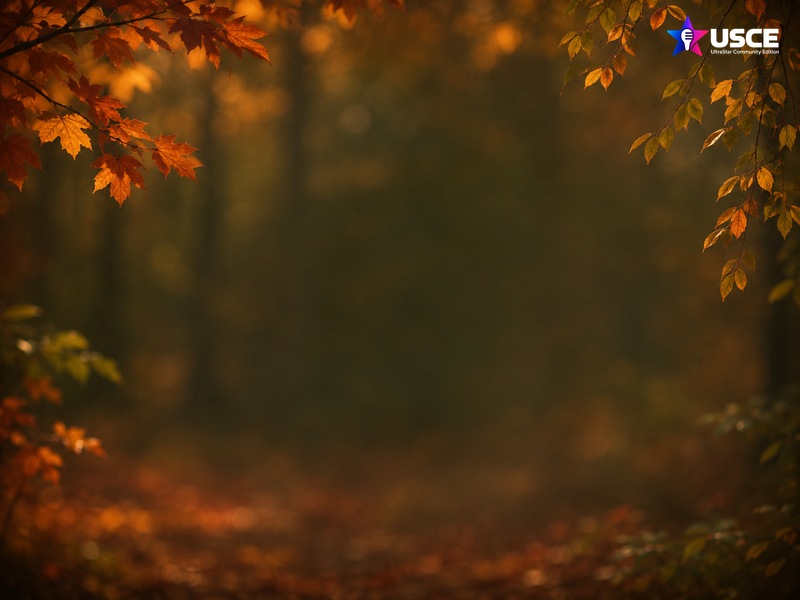
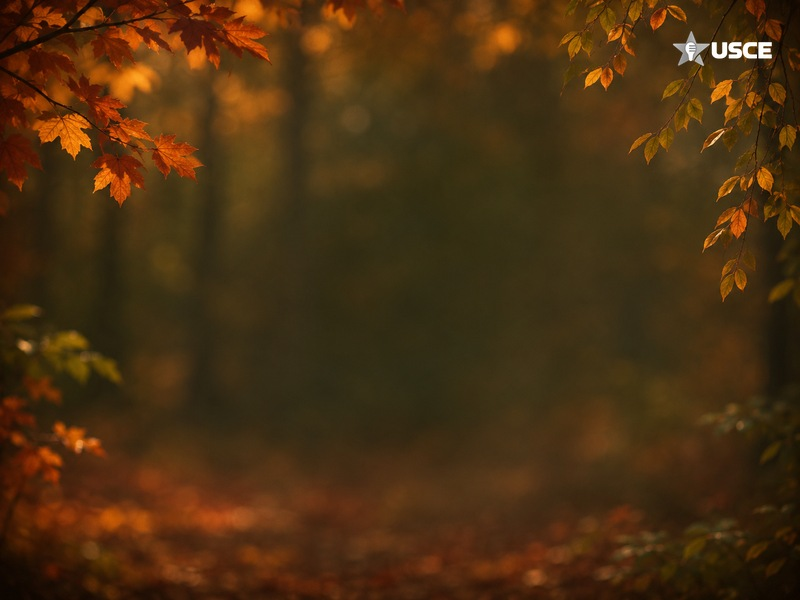
Restore the simpler Modern background wordmark

Changed region(s): [[0.8125, 0.03, 1.0, 0.12]]

diff --git a/.github/artwork-source/build-backgrounds.py b/.github/artwork-source/build-backgrounds.py
@@ -45,7 +45,25 @@ def dark_surface_wordmark(source):
     return logo.crop(box)
 
 
-def branded(background, wordmark, *, loading=False):
+def modern_wordmark(source):
+    """Use a monochrome star and short USCE wordmark for Modern."""
+    logo = Image.open(BytesIO(source)).convert("RGBA")
+    alpha = logo.getchannel("A")
+    star = ImageOps.grayscale(logo.crop((0, 0, 855, logo.height)))
+    star = star.point(lambda value: 128 + value // 2).convert("RGBA")
+    star.putalpha(alpha.crop((0, 0, 855, logo.height)))
+
+    wordmark = Image.new("RGBA", logo.size)
+    wordmark.paste(star)
+    letters_box = (855, 0, logo.width, 565)
+    letters_alpha = alpha.crop(letters_box)
+    letters = Image.new("RGBA", letters_alpha.size, "white")
+    letters.putalpha(letters_alpha)
+    wordmark.paste(letters, letters_box[:2])
+    return wordmark.crop(wordmark.getbbox())
+
+
+def branded(background, wordmark, *, loading=False, top_margin=0.027):
     output = background.copy()
     width, height = output.size
     logo_width = round(width * (0.44 if loading else 0.14))
@@ -54,7 +72,7 @@ def branded(background, wordmark, *, loading=False):
     if loading:
         position = ((width - logo_width) // 2, (height - logo_height) // 2)
     else:
-        position = (width - logo_width - round(width * 0.026), round(height * 0.027))
+        position = (width - logo_width - round(width * 0.026), round(height * top_margin))
     output.paste(logo.convert("RGB"), position, logo.getchannel("A"))
     return output
 
@@ -67,6 +85,7 @@ def main():
[1 lines of base64/hex data omitted]
         parser.error("The wordmark must match the source listed in the branding notice.")
     wordmark = dark_surface_wordmark(logo)
+    modern = modern_wordmark(logo)
 
     backgrounds = {"blue": blue_background(MENU_SIZE)}
     for season in SEASONS:
@@ -77,15 +96,17 @@ def main():
     for theme in ("Modern", "Deluxe"):
         for season, background in backgrounds.items():
             path = ROOT / theme / f"[bg-main]{season}.jpg"
-            branded(background, wordmark).save(path, quality=93, optimize=True)
+            branded(background, modern if theme == "Modern" else wordmark,
+                    top_margin=0.05 if theme == "Modern" else 0.027).save(
+                        path, quality=93, optimize=True)
 
     for theme, season in (("Modern", "blue"), ("Modern", "winter"),
                           ("Deluxe", "fall"), ("Deluxe", "summer")):
         path = ROOT / theme / f"[bg-load]{season}.png"
-        branded(backgrounds[season], wordmark, loading=True).save(path, optimize=True)
+        branded(backgrounds[season], modern if theme == "Modern" else wordmark, loading=True).save(path, optimize=True)
 
     path = ROOT / "Modern" / "[bg-song]blue-wide.png"
-    branded(blue_background(WIDE_SIZE), wordmark).save(path, optimize=True)
+    branded(blue_background(WIDE_SIZE), modern, top_margin=0.05).save(path, optimize=True)
 
 
 if __name__ == "__main__":

diff --git a/.github/artwork-source/README.md b/.github/artwork-source/README.md
@@ -22,7 +22,9 @@ Invent all imagery; no reference or recreation of any existing image."
 The wordmark comes from [USCE branding](https://github.com/UltraStar-CE/USCE/blob/a2072d52bfc5d7a006e14d10bcc94ab1bc8b1008/branding/usce-logo-horizontal.png).
 The composition keeps the star and microphone, renders the dark letters in
 white for use on dark backgrounds, and moves the wordmark to the center on
-loading screens. The script verifies the branding source checksum.
+loading screens. Modern uses a monochrome star and the short USCE wordmark
+without the subtitle. Deluxe uses the full wordmark. The script verifies the
+branding source checksum.
 
 Run `python .github/artwork-source/build-backgrounds.py PATH_TO_USCE_LOGO` with
 Python and Pillow. It preserves the existing 800x600 and 1672x941 asset sizes.
